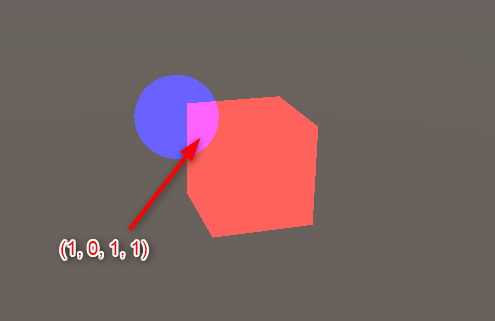
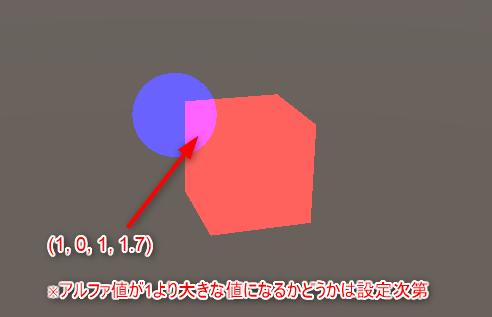
ブレンド時のアルファ値について修正。その他少し文言等を修正。

diff --git a/08_Transparency/index.html b/08_Transparency/index.html
@@ -16,9 +16,9 @@
     このページでは、半透明描画を行うために必要な知識を学んでいきます。<br>
     <h1>デプスバッファ</h1>
     <h2>デプスバッファとは</h2>
-    <p>3D CGが描画されるとき、フラグメントシェーダーが色をカラーバッファに書き込みます（カラーバッファとは、画面のピクセルの数と同じ数だけ色情報を格納できるメモリ領域）。<br>
+    <p>3D CGが描画されるとき、フラグメントシェーダーが色をフレームバッファに書き込みます（フレームバッファとは、最終的にモニターに出力される画面のデータ。画面のピクセルの数と同じ数だけ色情報を格納できるメモリ領域）。<br>
       そのとき同時に、<strong>デプスバッファと呼ばれるメモリ領域に、塗ったピクセルの深度値（カメラから見た奥行きの情報）が格納されます</strong>。<br>
-      デプスバッファのイメージとしては、カラーバッファと同様に画面のピクセルの数だけ情報を格納できるものですが、色ではなく深度値を格納するものになります。<br>
+      デプスバッファのイメージとしては、フレームバッファと同様に画面のピクセルの数だけ情報を格納できるものですが、色ではなく深度値を格納するものになります。<br>
       深度値は0～1の値を取ります。（なお、0と1のどちらが近くでどちらが遠くかなのかは、環境によって異なります）。</p>
     <img src="image/1280px-Z_buffer.svg.png" alt="" style="width: 400px; height: 518px;">
     <p>デプスバッファの内容を画像として出力すると、上図の下側のようになります。<br>
@@ -64,14 +64,14 @@
     <p><img src="image/PipelineCullDepth.png" alt=""></p>
     <p>引用：<a href="https://docs.unity3d.com/ja/2019.4/Manual/SL-Blend.html"
         target="_blank">https://docs.unity3d.com/ja/2019.4/Manual/SL-Blend.html</a></p>
-    <p>フラグメントシェーダーが出力した色と、カラーバッファに元々書き込まれていた色を混ぜる工程です。<br>
+    <p>フラグメントシェーダーが出力した色と、フレームバッファに元々書き込まれていた色を混ぜる工程です。<br>
       <strong>デフォルトでは、色を混ぜずに単純に上書きしますが、指定を行うことで様々な方法で色を混ぜることができます</strong>。</p>
     <h2>ブレンドモード</h2>
     <p>色のブレンドを行いたいときは、ブレンド方法を指定します。</p>
     <p>Passブロックの中に以下の形式で記述します。</p>
     <p class="source">Blend <span style="color: #3a37dd;"><i>SrcFactor</i> <i>DstFactor</i></span></p>
     <p>SrcFactorはフラグメントシェーダーから出力された色にかける係数の指定です。<br>
-      DstFactorは書き込み先のカラーバッファの色にかける係数の指定です。</p>
+      DstFactorは書き込み先のフレームバッファの色にかける係数の指定です。</p>
     <p>例えば次のように指定したとします。これは典型的な<strong>アルファブレンド</strong>です。</p>
     <p class="source">Blend SrcAlpha OneMinusSrcAlpha</p>
     <p><code>SrcAlpha</code>はフラグメントシェーダーから出力された色のアルファ値を表します。<br>
@@ -81,18 +81,18 @@
       そして青<code>（0, 0, 1, 1）</code>に<code>OneMinusSrcAlpha</code>つまり <code>1 - 0.7</code> 、つまり<code>0.3</code>がかけられて<code>（0, 0, 0.3, 0.3）</code>となります。<br>
       最終的に、<code>（0.7, 0, 0, 0.49）</code>と<code>（0, 0, 0.3, 0.3）</code>が足されて、<code>（0.7, 0, 0.3, 0.79）</code>となります。これが最終結果の色です。</p>
     <img src="image/2020-12-13_17h36_46.png">
-    <p>なお、アルファブレンドを行うことでアルファ値が下がってしまっています。普通に描画する分には問題ありませんが、一度レンダーテクスチャーに出力し、それを描画しようとすると、意図しない結果になったりするので注意してください（半透明のマップやホログラム風のUIを実装しようとしたときなどになりがち）。</p>
     <p><br>
     </p>
     <p>今度は、次のように指定してみましょう。</p>
     <p class="source">Blend One One</p>
-    <p>このように指定すると、カラーバッファの色と、フラグメントシェーダーが出力した色が単純に加算されます。<br>
+    <p>このように指定すると、フレームバッファの色と、フラグメントシェーダーが出力した色が単純に加算されます。<br>
       いわゆる加算ブレンドです。</p>
     <p><img src="image/2020-12-13_17h42_29.png"></p>
     <p>この指定の場合、アルファ値は意味は結果に影響を与えません。<br>
       アルファ値によって濃さを変えたい場合は、フラグメントシェーダーで、アルファ値をRGB値にかける必要があります。</p>
-    ブレンドに関して詳しいことは<a href="https://docs.unity3d.com/ja/2019.4/Manual/SL-Blend.html"
-      target="_blank">Unityマニュアル</a>を参照してください。
+    <p> ブレンドに関して詳しいことは<a href="https://docs.unity3d.com/ja/2019.4/Manual/SL-Blend.html"
+        target="_blank">Unityマニュアル</a>を参照してください。 </p>
+    <p>なお、ブレンドを行うことで、最終結果のアルファ値が1以外の値に変化してしまっています。フレームバッファのアルファ値は特に使われないので、普通に描画する分には問題ありませんが、描画先がフレームバッファではなくレンダーテクスチャーの場合で、かつ、それを半透明描画しようとすると、意図しない結果になったりするので注意してください（半透明のマップやホログラム風のUIを実装しようとしたときなどになりがち）。</p>
     <h1>半透明のシェーダー</h1>
     <p>それでは、半透明描画を行うシェーダーを作ってみましょう。ポイントとなる部分を黄色で強調しました。</p>
     <p class="source">Shader "MyShader/Transparent"<br>
@@ -149,7 +149,7 @@
     </p>
     <p>最も重要なのは次の部分です。</p>
     <p class="source">Blend SrcAlpha OneMinusSrcAlpha</p>
-    <p>この記述によりブレンドが有効になり、フラグメントシェーダーの出力した色とカラーバッファの色がブレンドされます。</p>
+    <p>この記述によりブレンドが有効になり、フラグメントシェーダーの出力した色とフレームバッファの色がブレンドされます。</p>
     <p><br>
     </p>
     <p>今回、タグにて<code>Queue</code>（描画順グループ）を<code>Transparent</code>にしています。</p>
@@ -186,7 +186,7 @@
         target="_blank">http://tsubakit1.hateblo.jp/entry/2015/09/09/233000</a></p>
     <p>キャラクターのような複雑な形状のものを半透明描画する場合は、かなり工夫を行う必要があります（上記リンク先を参照してください）。</p>
     <p>このため、最近のゲームでは、なるべく半透明という表現は避けられる傾向にあります。<br>
-      どうしてもキャラクターなどを半透明にしたい場合は、次のディザによるアルファ抜きが使われることも多いです。</p>
+      どうしてもキャラクターなどを半透明にしたい場合は、次章のディザによるアルファ抜きが使われることも多いです。</p>
     <p><br>
     </p>
     <h1>ディザによるアルファ抜き</h1>

diff --git a/09_ToonAndOutline/index.html b/09_ToonAndOutline/index.html
@@ -438,7 +438,7 @@
     <p>上記の2値化シェーダーや減色シェーダーとは全く別のアプローチでトゥーンシェーディングを実現する方法があります。「<strong>トーンマッピング</strong>」と呼ばれる技法で、明度のグラデーションに対応した画像をあらかじめ用意しておき、マッピングする技法です。</p>
     <img src="image/tone.png" alt="">
     <p>シンプルながら、色の調整が柔軟に行いやすいです。非プログラマー（デザイナー）でも思い通りの色を設定することができます。</p>
-    <p>黄色く強調した部分は、<code>2-1(1)</code>のハーフランバートシェーダーと同じです。</p>
+    <p>黄色く強調した部分以外は、<code>2-1(1)</code>のハーフランバートシェーダーと同じです。</p>
     <p class="source">Shader "MyShader/ToneMapping"<br>
       {<br>
       &nbsp;&nbsp;&nbsp; Properties<br>
@@ -661,13 +661,13 @@
       ソフトエッジの場合はアウトラインがちぎれませんが、ハードエッジの場合はアウトラインがちぎれてしまいます。<br>
       では、すべてソフトエッジで作れば良いのかというと、もちろんそうではないわけで、この問題はなかなか難しい問題です。<br>
       <a href="https://cgworld.jp/feature/201806-unite-04toonshader01-3.html"
-        target="_blank">アニメ調グラフィックのゲームの最高峰「ギルティギア」シリーズでは、メッシュデータをインポートする際に特殊なプログラムを走らせてこの問題に対処している</a>らしいです。</p>
+        target="_blank">アニメ調グラフィックのゲームの最高峰「GUILTY GEAR Xrd」では、メッシュデータをインポートする際に特殊なプログラムを走らせてこの問題に対処している</a>らしいです。</p>
     <p><br>
     </p>
     <p><br>
     </p>
     <h2>リムライトによるアウトライン</h2>
-    <p>上で紹介した手法は「オブジェクトの<strong>外側</strong>にアウトライン描画する」ものでしたが、以前学んだリムライトと似た手法で「オブジェクトの<strong>内側</strong>にアウトラインを描画する」やり方もあります。</p>
+    <p>上で紹介した手法は「オブジェクトの<strong>外側</strong>にアウトライン描画する」ものでしたが、以前学んだ「リムライト」とほぼ同じ手法で「オブジェクトの<strong>内側</strong>にアウトラインを描画する」やり方もあります。</p>
     <p class="source">Shader "MyShader/RimOutline"<br>
       {<br>
       &nbsp;&nbsp;&nbsp; Properties<br>
@@ -797,7 +797,7 @@
     <p><br>
     </p>
     <h2>その他の技法</h2>
-    <p>今回は紹介しませんが、上記以外にも、アウトライン描画を実現するために、押し出しとステンシルバッファを併用したり、ポストエフェクトを使用したりといった技法が存在します。</p>
+    <p>今回は紹介しませんが、アウトライン描画を実現する手法は上記以外にも、押し出しとステンシルバッファを併用する手法や、ポストエフェクトでデプスバッファを参照して実現する手法などが存在します。</p>
     <h1>練習問題</h1>
     <p>2章の陰影のグラデーションを減色したものと3章のアウトライン表現を組み合わせて、トゥーンシェーダーを作成してください。</p>
     <br>
